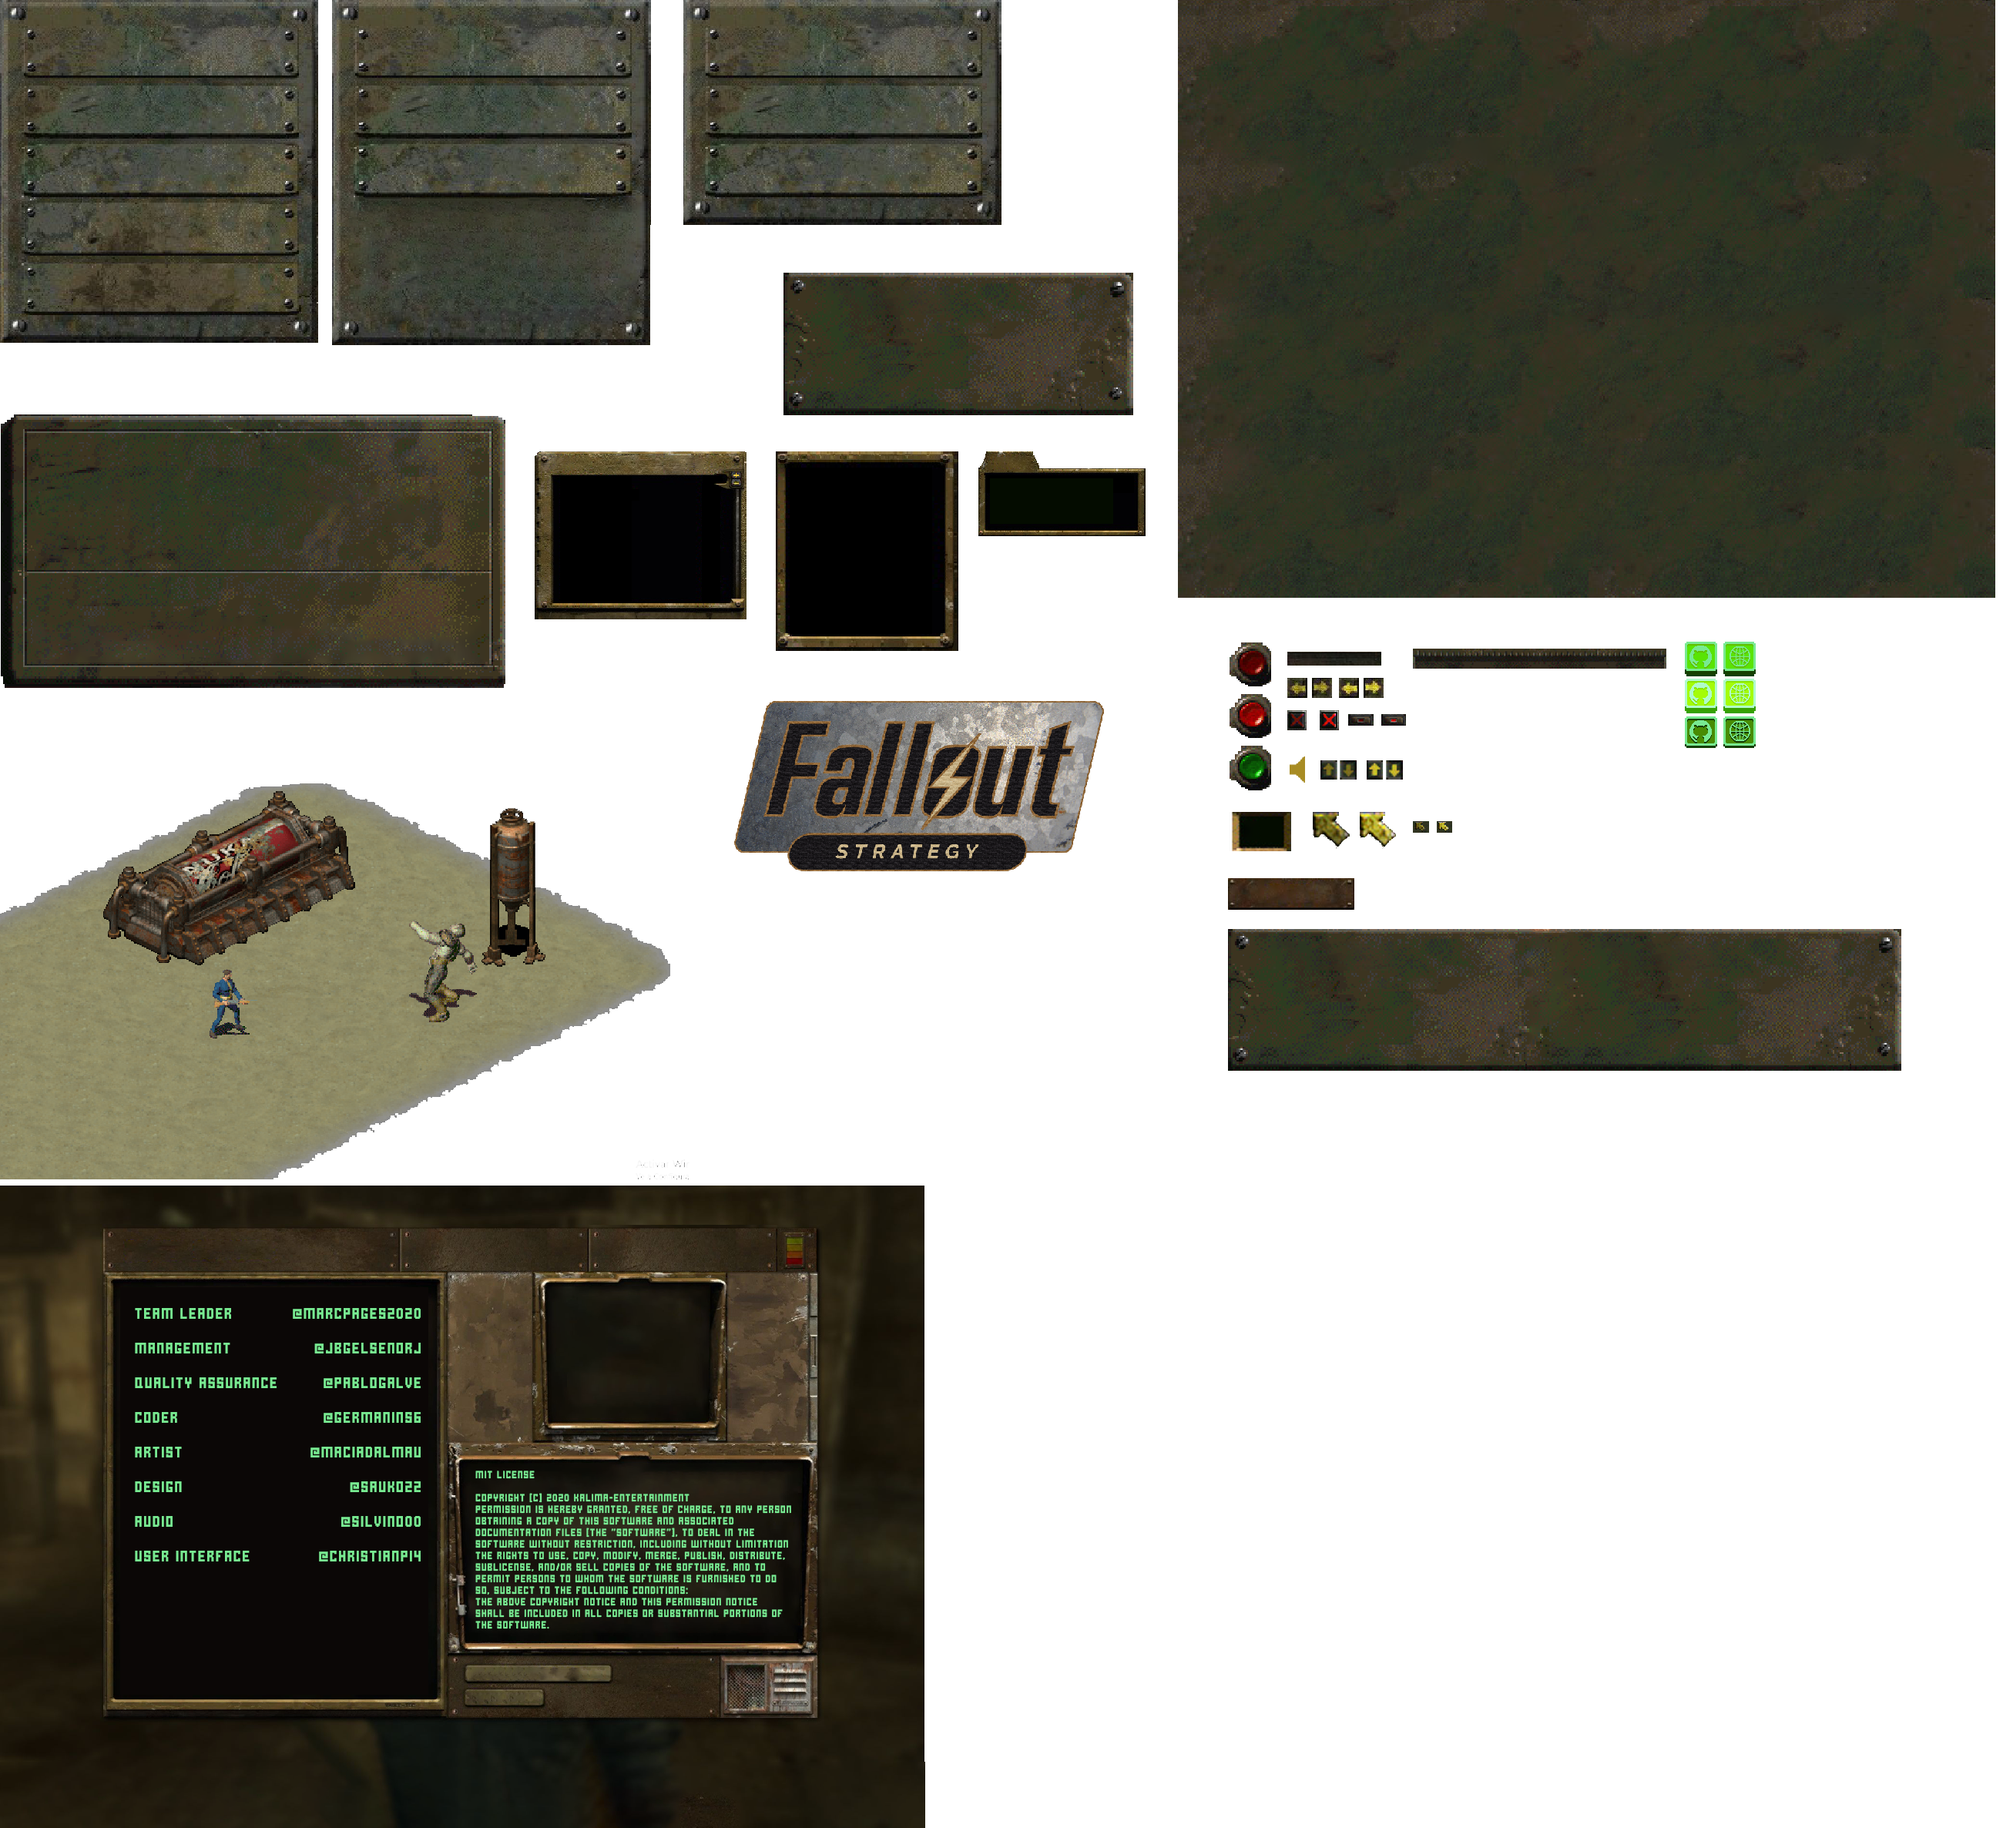
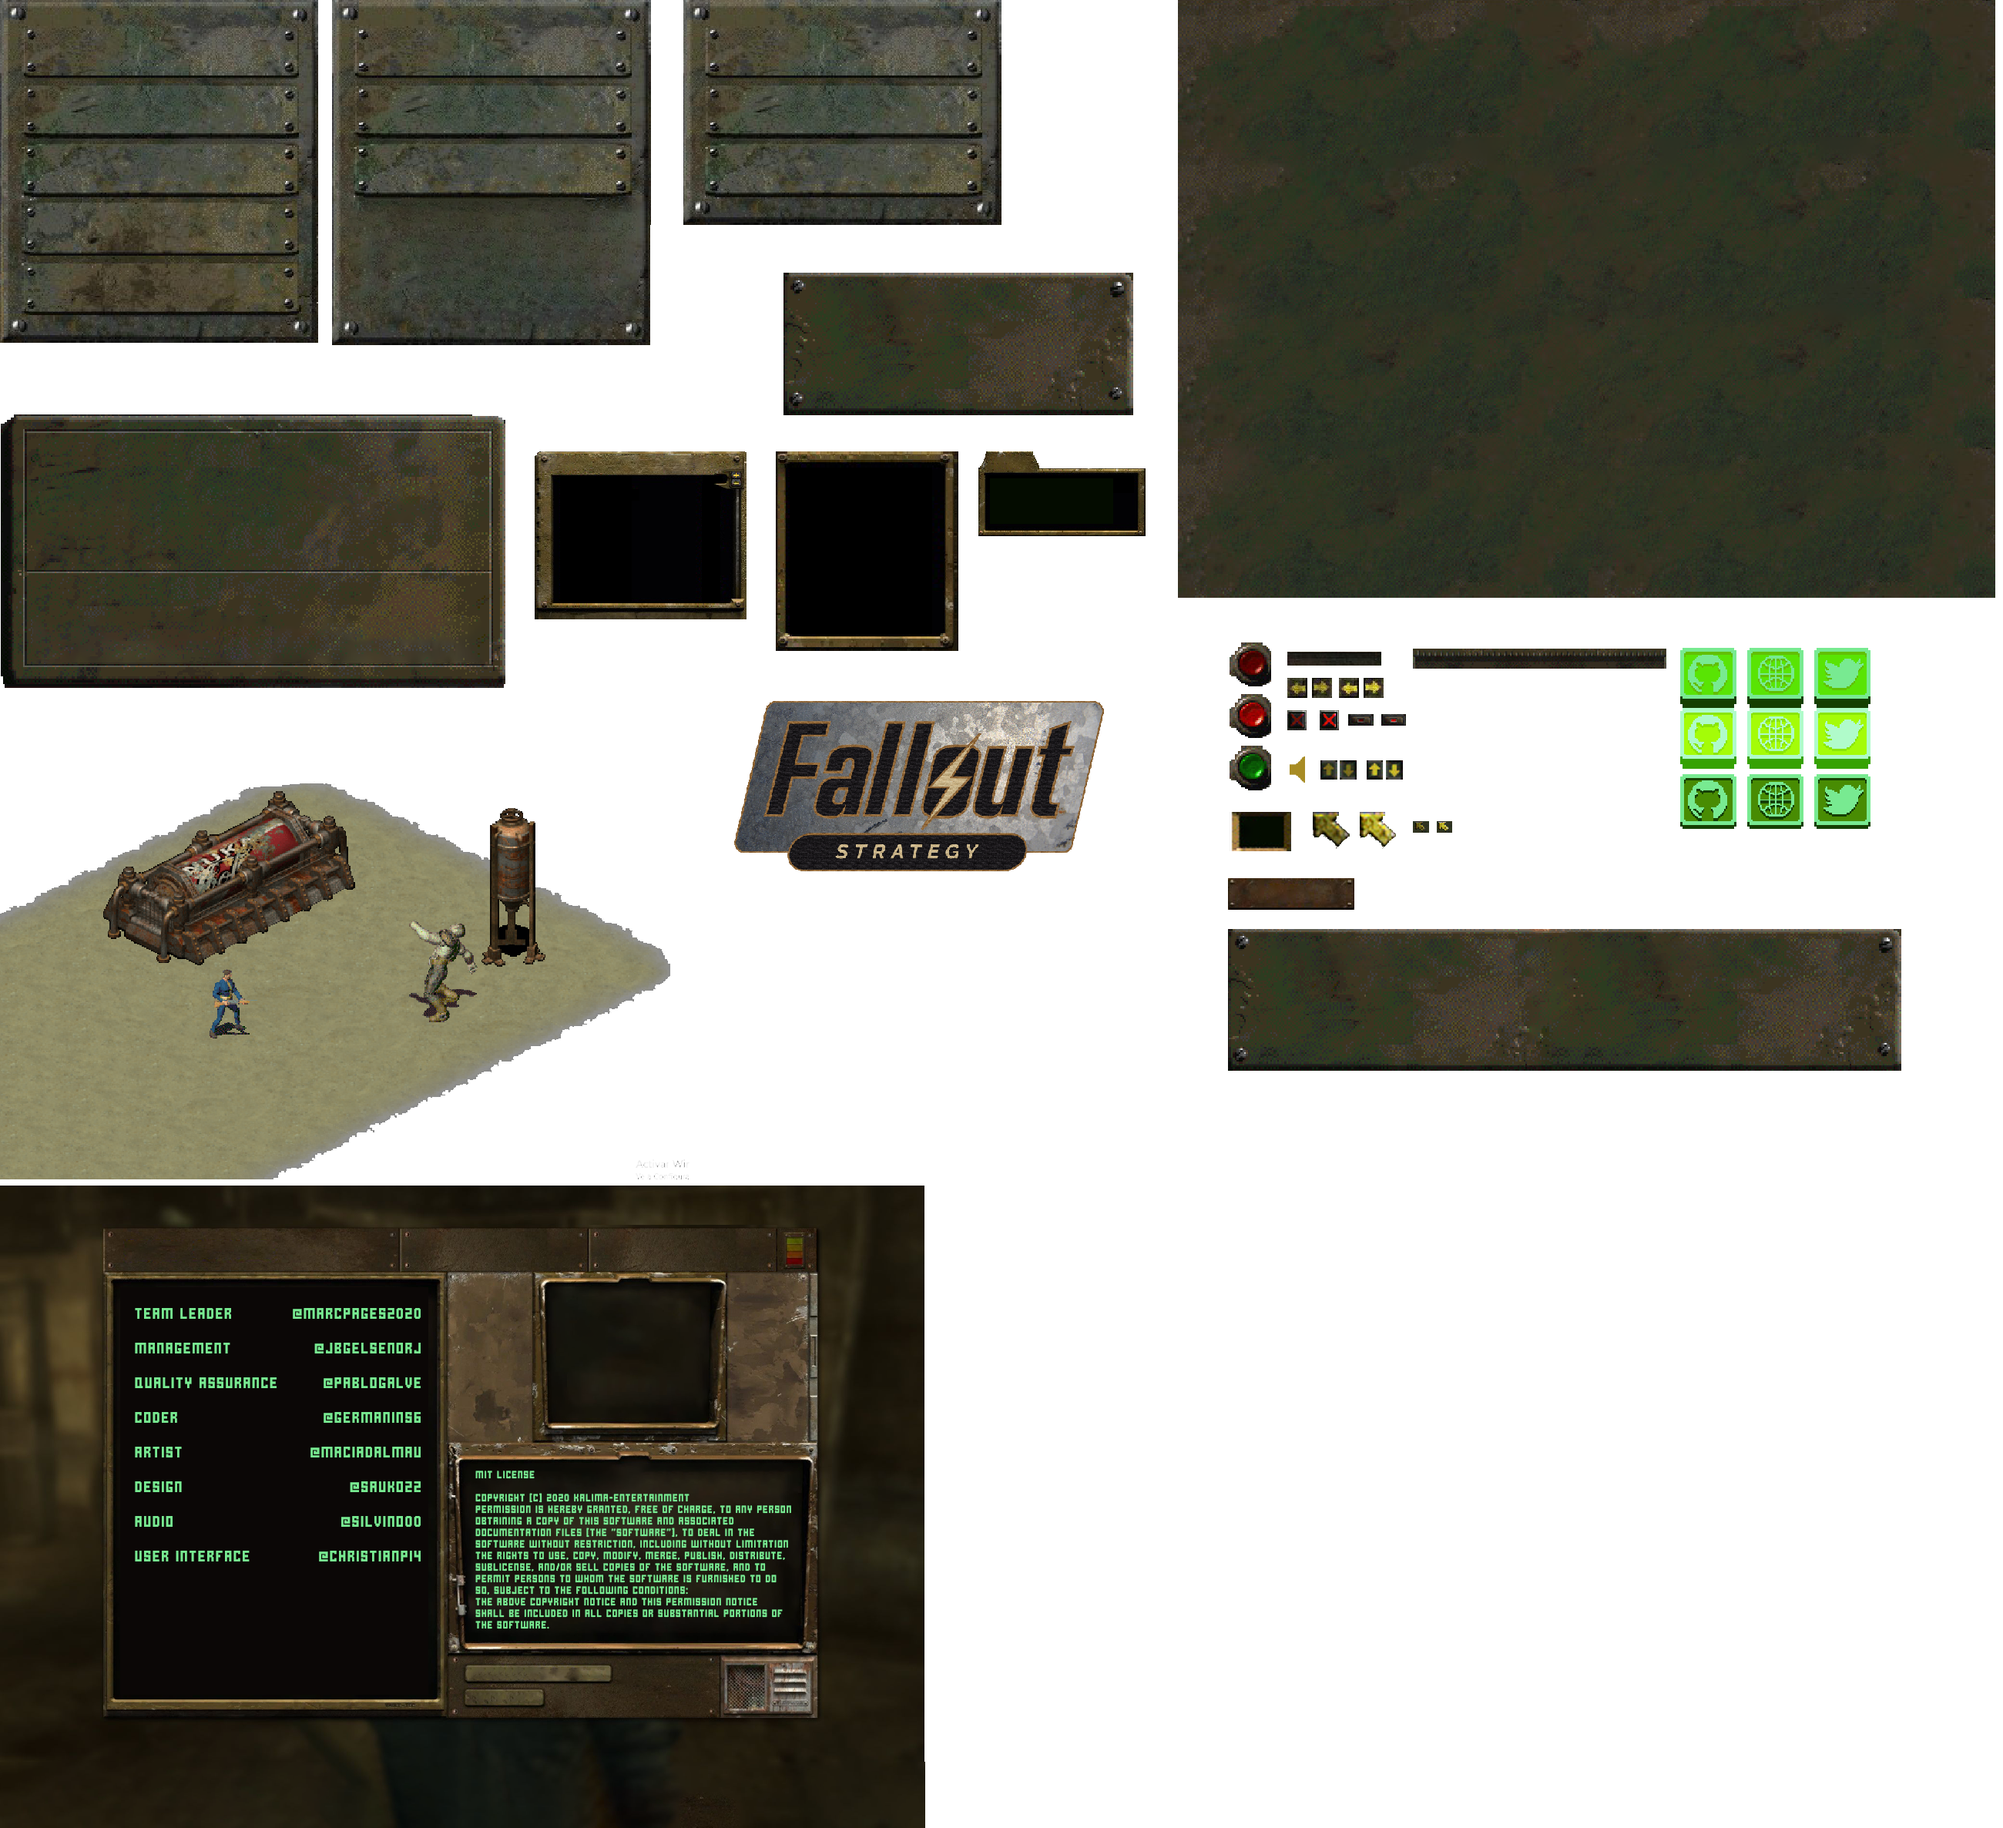
Adding some buttons to credits menu

Changed region(s): [[0.8412, 0.343, 0.9346, 0.4678]]

diff --git a/FalloutStrategy/Motor2D/MenuManager.cpp b/FalloutStrategy/Motor2D/MenuManager.cpp
@@ -77,12 +77,23 @@ void MenuManager::DestroyMainMenu()
 
 void MenuManager::CreateCredits()
 {
+	//Images
 	credits_menu.background = (j1Image*)App->gui->CreateImage(-90, 0, Image, { 0, 1536, 1207, 837 }, NULL, this);
-
-
+	
+	//Buttons
+	credits_menu.back_button = (UI_Button*)App->gui->CreateButton(65, 65, button_back_credits, { 1704,1054,48,46 }, { 1765,1054,48,46 }, { 1765,1054,48,46 }, NULL, this);
+	credits_menu.github_button = (UI_Button*)App->gui->CreateButton(110, 550, button_github_credits, { 2181,841,73,78 }, { 2181,919,73,78 }, { 2181,1005,73,78 }, NULL, this);
+	credits_menu.web_button = (UI_Button*)App->gui->CreateButton(230, 550, button_web_credits, { 2268,841,73,78 }, { 2268,919,73,78 }, { 2268,1005,73,78 }, NULL, this);
+	credits_menu.web_button = (UI_Button*)App->gui->CreateButton(350, 550, button_twitter_credits, { 2355,841,73,78 }, { 2355,919,73,78 }, { 2355,1005,73,78 }, NULL, this);
 }
 
 void MenuManager::DestroyCredits()
 {
+	//Destroying Images
+	App->gui->Delete_Element(credits_menu.background);
 	
+	//Destroying Buttons
+	App->gui->Delete_Element(credits_menu.back_button);
+	App->gui->Delete_Element(credits_menu.github_button);
+	App->gui->Delete_Element(credits_menu.web_button);
 }

diff --git a/FalloutStrategy/Motor2D/UI_Button.cpp b/FalloutStrategy/Motor2D/UI_Button.cpp
@@ -113,6 +113,12 @@ bool UI_Button::Update(float dt)
 				App->menu_manager->CreateCredits();
 			}
 
+			if (t == button_back_credits)
+			{
+				App->menu_manager->CreateMainMenu();
+				App->menu_manager->DestroyCredits();
+			}
+
 			if(t == button_exit)
 			{
 				App->quitGame = true;
@@ -134,8 +140,14 @@ bool UI_Button::Update(float dt)
 				
 			}
 
-			if (t == Button_info) {
-				ShellExecuteA(NULL, "open", "https://polcamacho.github.io/Ninja-Warrior", NULL, NULL, SW_SHOWNORMAL);
+			if (t == button_github_credits) 
+			{
+				ShellExecuteA(NULL, "open", "https://github.com/Kalima-Entertainment/Fallout_Strategy", NULL, NULL, SW_SHOWNORMAL);
+			}
+
+			if (t == button_twitter_credits)
+			{
+				ShellExecuteA(NULL, "open", "https://twitter.com/KalimaEntmt", NULL, NULL, SW_SHOWNORMAL);
 			}
 
 			if (t == Button_restart) {

diff --git a/FalloutStrategy/Motor2D/MenuManager.h b/FalloutStrategy/Motor2D/MenuManager.h
@@ -34,6 +34,10 @@ struct UI_credits {
 
 	j1Image* background = nullptr;
 	
+	UI_Button* back_button = nullptr;
+	UI_Button* github_button = nullptr;
+	UI_Button* web_button = nullptr;
+	UI_Button* twitter_button = nullptr;
 };
 
 class MenuManager :public j1Module {

diff --git a/FalloutStrategy/Motor2D/UI_element.h b/FalloutStrategy/Motor2D/UI_element.h
@@ -11,6 +11,10 @@ struct SDL_Texture;
 enum UI_Type {
 
 	button_new_game,
+	button_back_credits,
+	button_github_credits,
+	button_web_credits,
+	button_twitter_credits,
 	button_load_game,
 	button_settings,
 	button_credits,
